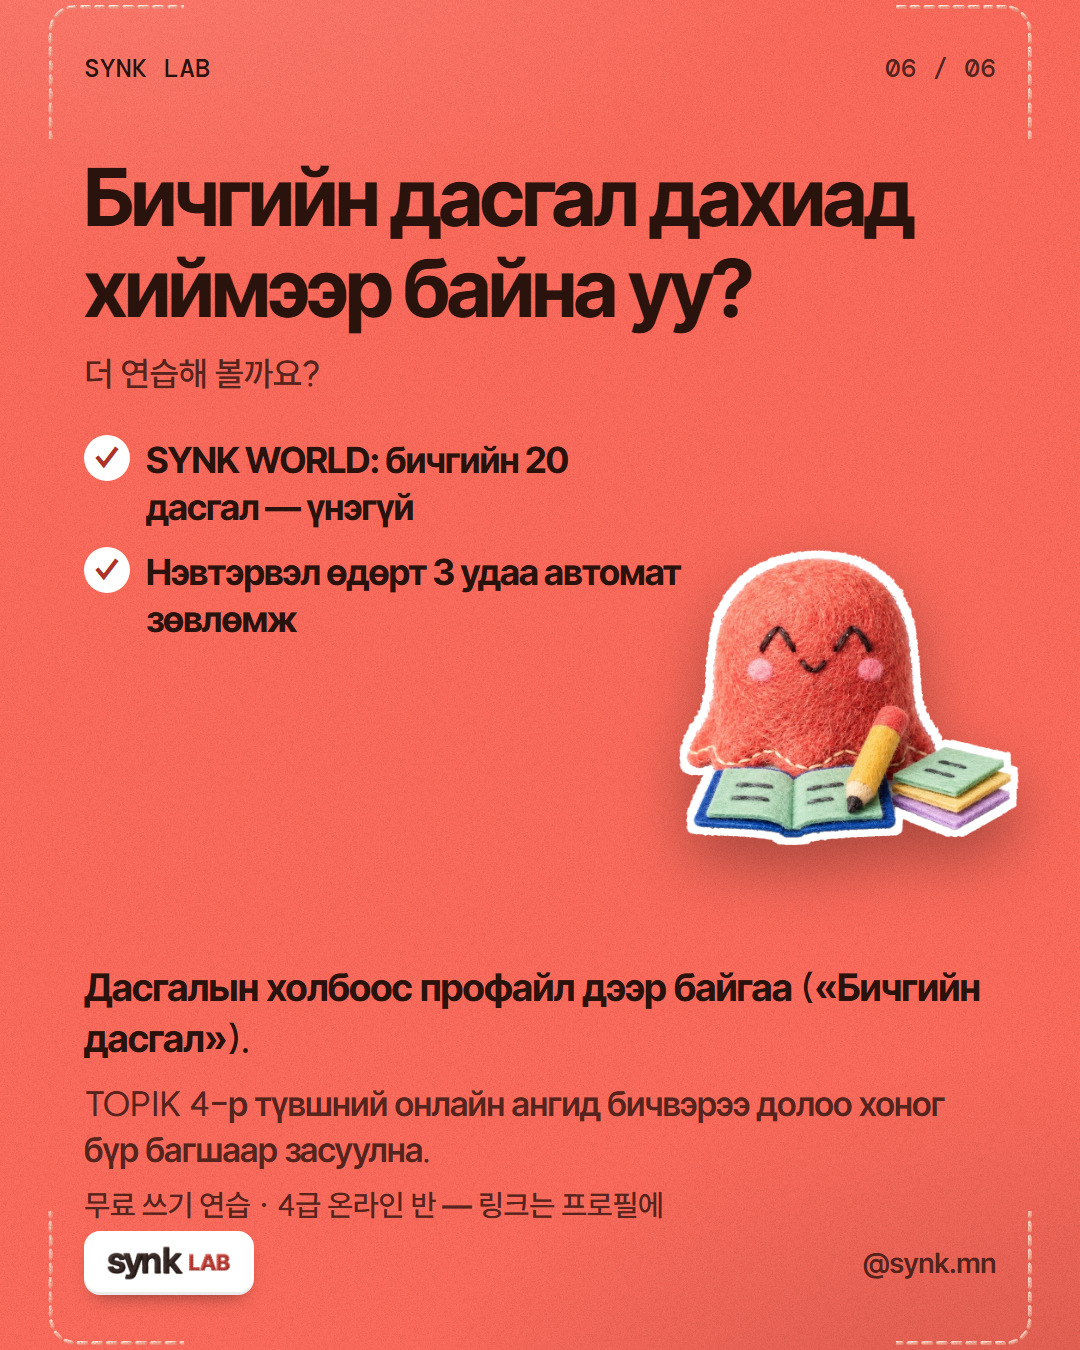
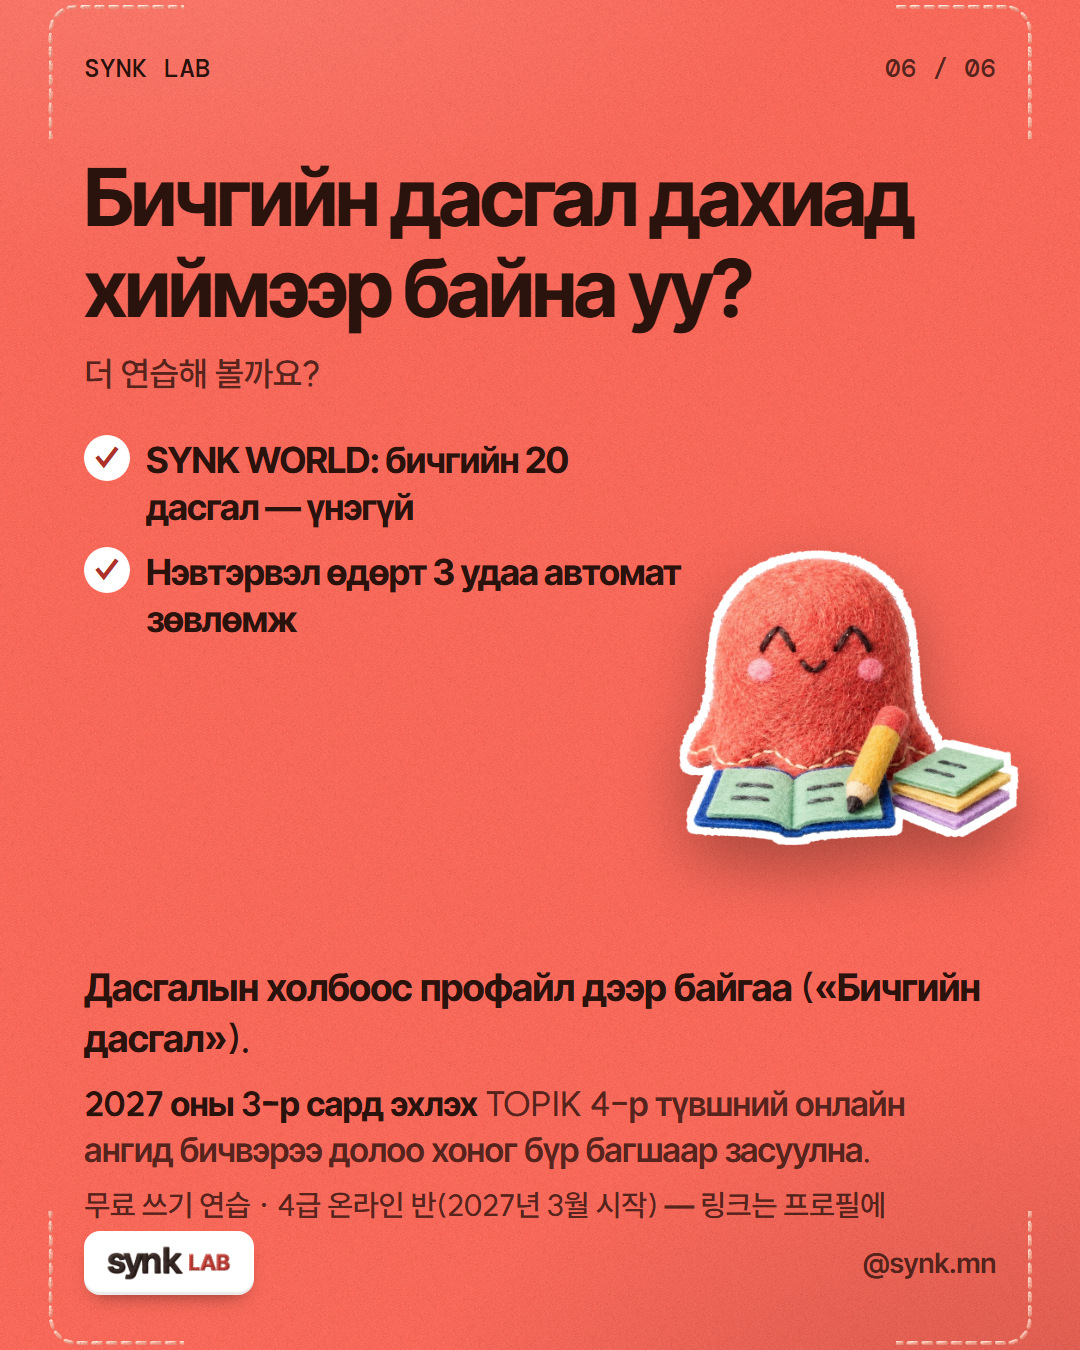
feat(LAB 첫 글 ②): 끝 장 반 안내 · 페북 반 링크 줄에 「2027년 3월 시작」
- 유호님 「② 끝 장 반 안내에도 2027년 3월 시작을 넣어 줘」: 6장 «2027 оны 3-р сард эхлэх TOPIK 4-р түвшний онлайн ангид …»(날짜 굵게) · 한국어 풀이 「4급 온라인 반(2027년 3월 시작)」, 페북 본문 반 링크 줄도 같은 말
- 9차 몽골어 대조 아르곤 · Vertex 3.1 Pro — 06.jpg만 교체(01~05 그대로), 슬롯 10-27 21:00 그대로
- 준비.json 아르곤 8차 끝 표시 · README 4번 끝

Changed region(s): [[0.0611, 0.8089, 0.8861, 0.9022]]

diff --git a/docs/마케팅/LAB_TOPIK4빈칸규칙_mn_20261023/원고.html b/docs/마케팅/LAB_TOPIK4빈칸규칙_mn_20261023/원고.html
@@ -171,8 +171,8 @@
       <li>Нэвтэрвэл өдөрт 3 удаа автомат зөвлөмж</li>
     </ul>
     <p class="ko-s mn" style="margin-top:auto;font-weight:700;font-size:38px;color:var(--on-field)">Дасгалын холбоос профайл дээр байгаа («Бичгийн дасгал»).</p>
-    <p class="ko-s mn" style="margin-top:16px;font-weight:600">TOPIK 4-р түвшний онлайн ангид бичвэрээ долоо хоног бүр багшаар засуулна.</p>
-    <p class="ko-s" style="margin-top:12px;font-size:30px">무료 쓰기 연습 · 4급 온라인 반 — 링크는 프로필에</p>
+    <p class="ko-s mn" style="margin-top:16px;font-weight:600"><b style="font-weight:800;color:var(--on-field)">2027 оны 3-р сард эхлэх</b> TOPIK 4-р түвшний онлайн ангид бичвэрээ долоо хоног бүр багшаар засуулна.</p>
+    <p class="ko-s" style="margin-top:12px;font-size:30px">무료 쓰기 연습 · 4급 온라인 반(2027년 3월 시작) — 링크는 프로필에</p>
   </div>
   <img class="k-object diecut" src="그림/몽글_공책.webp" alt="" style="--s:330px;right:66px;top:600px">
   <div class="k-foot"><span class="k-logo-tag"><img class="k-logo" src="../../디자인/SNS키트/assets/logo-lab.webp" alt="synk LAB"></span><span class="k-handle">@synk.mn</span></div>

diff --git a/docs/마케팅/LAB_TOPIK4빈칸규칙_mn_20261023/기획.md b/docs/마케팅/LAB_TOPIK4빈칸규칙_mn_20261023/기획.md
@@ -41,3 +41,4 @@
 - **낯선 사람 이해 시험(v2 최종 6장)** — 새 하위 에이전트(Sonnet, TOPIK II 쓰기를 준비하는 몽골 유학생 역할): 답 1 「TOPIK 쓰기 51·52 빈칸은 글 종류에 말투를 맞추고(안내문 -십시오, 52번 -ㄴ다, 교수님껜 높임말) 빈칸 뒤 문장도 먼저 읽으라는 얘기」 = 한 문장과 같음 · 끝까지 · 4점 → **통과**. 「SYNK가 누구인지 모르겠다」 → 캡션 · 페북 본문 둘째 줄에 «Бид SYNK LAB — монгол оюутнуудад солонгос хэл заадаг баг.»(① 캡션과 같은 줄).
 - **Fable 최종(v2)** — P0 · P1 없음(README 전제만). P2 반영: 1장 그림 안 👇 이모지 빼기(키트 §10). P3 반영: 5장 「알려 줘요」가 왜 Буруу인지 «알려 줘요 — хүндэтгэлийн «-시-» байхгүй», 3장 꼬리표를 판정만으로, README에 고정 순서(② 고정 뒤 ①을 풀었다 다시 고정).
 - **몽골어 1층 — Vertex 7차(10-23 21시)** — 10-23 21시 Vertex Gemini 3.1 Pro 대조기 7차 끝(유호님 「Vertex(Gemini 3.1 Pro)로 자막·화면 글 전부 역번역 검수 받아줘. 크레딧 쓰는 거 괜찮아」) — 화면 글 · 캡션 · 페북 본문 · 댓글 답 몽골어 전부를 8묶음(①5 · ②3)으로, 문법 8묶음 모두 「정상」 · 맞춤법(spellcheck.mn) 의심 0 · 직역 역번역 뜻이 한국어와 같음. 고친 줄 없음. 6차(구독 문)는 돌릴 필요가 없어졌다.
+- **2027년 3월 시작(10-24)** — ① 반 소식에 2027년 3월 시작을 크게 넣은 뒤 유호님 「② 끝 장 반 안내에도 2027년 3월 시작을 넣어 줘」: 6장 반 안내 줄을 «2027 оны 3-р сард эхлэх TOPIK 4-р түвшний онлайн ангид бичвэрээ долоо хоног бүр багшаар засуулна.»(날짜 굵게)로, 한국어 풀이 「4급 온라인 반(2027년 3월 시작)」, 페북 본문 반 링크 줄도 같은 말(인스타 캡션은 반 안내가 없어 그대로). 9차 대조 아르곤 · Vertex 「정상」 · 맞춤법 의심 0. 06.jpg만 바뀌었다.

diff --git a/docs/마케팅/LAB_TOPIK4빈칸규칙_mn_20261023/게시/README.md b/docs/마케팅/LAB_TOPIK4빈칸규칙_mn_20261023/게시/README.md
@@ -18,7 +18,8 @@
 1. 인스타 @synk.mn 프로필 둘째 링크 «Бичгийн дасгал» `https://synk.im/world/?exam=topik2&lang=mn`이 걸려 있다(① 올리기 전에 첫째 링크와 함께 건다 — ① README).
 2. 6장 「20문항 · 하루 3번」을 게시 직전에 공개본에서 다시 확인한다(`synk.im/world/world-writing-items.json` 20개).
 3. ~~대조기(몽골어 1층)를 몫이 풀린 뒤 돌린다~~ — **끝(10-23 21시, Vertex Gemini 3.1 Pro)**: 화면 글 · 캡션 · 페북 본문 · 댓글 답 전부 문법 「정상」 · 맞춤법 의심 0 · 역번역 뜻 일치(`검문/대조_7차_vertex_*.txt`).
-4. 아르곤 대조(유호님 「아르곤으로도 한번 검수해볼래?」) — 10-24 12:06 KST에 agy 몫이 풀리면 `검문/문안_7차_vertex_1~3`를 `--구독`으로 돌려 「정상」을 본다(Vertex 3.1 Pro 7차는 이미 「정상」). 몫이 안 풀렸으면 Vertex 결과로 건다.
+4. ~~아르곤 대조(유호님 「아르곤으로도 한번 검수해볼래?」)~~ — **끝(10-24 14시 세션 8차)**: 세 묶음 모두 「정상」 · 맞춤법 의심 0(`검문/대조_8차_argon_*.txt`).
+5. **2027년 3월 시작(10-24, 유호님 「② 끝 장 반 안내에도 2027년 3월 시작을 넣어 줘」)** — 6장 반 안내 줄 앞에 굵게 «2027 оны 3-р сард эхлэх», 한국어 풀이 「4급 온라인 반(2027년 3월 시작)」, 페북 본문 반 링크 줄도 같은 말. 9차 대조 아르곤 · Vertex 「정상」(`검문/대조_9차_*.txt`), 바뀐 장은 `06.jpg` 하나.
 
 ## 올리는 순서(「올려」 뒤)
 
